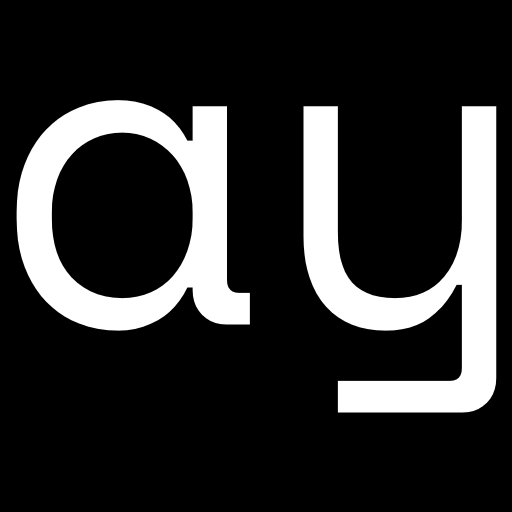
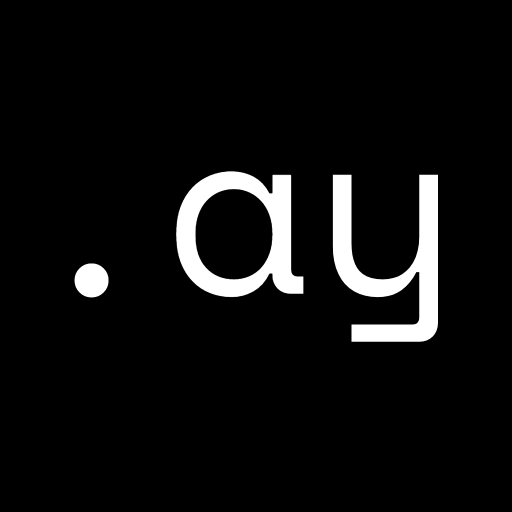
Moved image and name typing animation to middle when on smaller screens, also changed default light and dark mode

Changed region(s): [[0.0312, 0.1875, 0.9688, 0.8125]]

diff --git a/components/Experience.js b/components/Experience.js
@@ -82,7 +82,7 @@ export default function Experience() {
                 {experience.period}
               </p>
               <div>
-                <p className="text-[16px] dark:text-white border border-[#1F1F1F] dark:border-white p-2.5 w-full lg:w-[400px]">
+                <p className="text-[16px] dark:text-white dark:text-opacity-[.87] border border-[#1F1F1F] dark:border-white p-2.5 w-full lg:w-[400px]">
                   {`${experience.name} `}{" "}
                   <span className="text-[#8C8C8C]">
                     //{experience.role.toLowerCase()}
@@ -92,7 +92,7 @@ export default function Experience() {
                   {experience.tasks.map((item, index) => (
                     <li
                       key={index}
-                      className="pb-2 text-[16px] w-full lg:w-[700px] text-[#26262] dark:text-white-[.87] "
+                      className="pb-2 text-[16px] w-full lg:w-[700px] text-[#26262] dark:text-white dark:text-opacity-[.87] "
                     >
                       {" "}
                       {item}
@@ -142,7 +142,7 @@ export default function Experience() {
                 {experience.period}
               </p>
               <div>
-                <p className="text-[16px] dark:text-white border border-[#1F1F1F] w-full dark:border-white p-2.5 lg:w-[600px]">
+                <p className="text-[16px] dark:text-white dark:text-opacity-[.87] border border-[#1F1F1F] w-full dark:border-white p-2.5 lg:w-[600px]">
                   {`${experience.name} `}{" "}
                   <span className="text-[#8C8C8C]">
                     //{experience.role.toLowerCase()}
@@ -152,7 +152,7 @@ export default function Experience() {
                   {experience.tasks.map((item, index) => (
                     <li
                       key={index}
-                      className="pb-2 text-[16px] w-full lg:w-[700px] text-[#26262] dark:text-white-[.87] "
+                      className="pb-2 text-[16px] w-full lg:w-[700px] text-[#26262] dark:text-white dark:text-opacity-[.87] "
                     >
                       {" "}
                       {item}

diff --git a/components/Bio.js b/components/Bio.js
@@ -19,6 +19,7 @@ export default function Bio() {
       autoInsertCss: true
     });
 
+    
     // Destropying
     return () => {
       typed.destroy();
@@ -37,15 +38,17 @@ export default function Bio() {
           />
         </div>
 
-        <div className="pt-8">
-          <span className="text-6xl dark:text-white" ref={el}></span>
+        <div className="pt-8 flex flex-col items-center md:items-start">
+          <div className="flex flex-row">
+          <span className="text-2xl md:text-6xl dark:text-white dark:text-opacity-[.87]" ref={el}></span>
+          </div>
           <p className="text-2xl text-[#8C8C8C]">//fullstack developer</p>
         </div>
       </div>
 
       <div className="border-b pb-5 border-[#8C8C8C] dark:border-white dark:border-opacity-[.12]">
         <p className="text-[16px] text-[#8C8C8C]">//about</p>
-        <p className="text-[16px] pt-[24px] text-[#1F1F1F] dark:text-[#FFFFFF] w-full">
+        <p className="text-[16px] pt-[24px] text-[#1F1F1F] dark:text-[#FFFFFF] dark:text-opacity-[.87] w-full">
           hi, i’m abdussamad, my friends call me sammie. i enjoy building <br />{" "}
           dynamic, creative products from start to finish, focused on <br />{" "}
           developing intuitive experiences that constantly grow and improve{" "}

diff --git a/components/Link.js b/components/Link.js
@@ -18,8 +18,6 @@ export default function Links() {
   return (
     <div className="border-b pb-5 border-[#8C8C8C] dark:border-white dark:border-opacity-[.12] pt-10">
       <p className="text-[16px] text-[#8C8C8C]">//links</p>
-
-      {/* <div className="lg:gap-x-[325px] pt-[16px]"> */}
         <div className="pt-[16px]">
         {linksInfo.map((experience, index) => (
           <div
@@ -31,7 +29,7 @@ export default function Links() {
               {experience.title}
             </p>
 
-            <Link key={index} href={experience.link} passHref className="text-[16px] text-[#262626] dark:text-white">
+            <Link key={index} href={experience.link} passHref className="text-[16px] text-[#262626] dark:text-white dark:text-opacity-[.87]">
             <a className="hover:underline hover:underline-offset-8" target="_blank"> 
             {`${experience.link} `}{" "}
             </a>
@@ -41,6 +39,5 @@ export default function Links() {
         ))}
       </div>
       </div>
-    // </div>
   );
 }

diff --git a/components/Header.js b/components/Header.js
@@ -69,10 +69,10 @@ export default function Header() {
                         <p  className=" text-sm text-[#8C8C8C]">//{item.label}</p>
                         {index === 1 || index === 2 ?
                             <Link key ={index} href={item.link} passHref>
-                                <a target="_blank" className="text-base text-[#141414] dark:text-white dark:opacity-80">{item.field}</a> 
+                                <a target="_blank" className="text-base text-[#141414] dark:text-white dark:text-opacity-[.87]">{item.field}</a> 
                                 
                             </Link>:
-                            <p className="text-base text-[#141414] dark:text-white dark:opacity-80">{item.field}</p>
+                            <p className="text-base text-[#141414] dark:text-white dark:text-opacity-[.87]">{item.field}</p>
                         }
                         
                     </div>

diff --git a/styles/globals.css b/styles/globals.css
@@ -1,27 +1,38 @@
 
+@tailwind base;
+@tailwind components;
+@tailwind utilities;
+
+html {
+  width: 100vw;
+  height: 100vh;
+}
 html,
 body {
-  padding: 0;
   
+  /* background-color: #D7D7D7; */
   font-family: "Space Mono", -apple-system, BlinkMacSystemFont, Segoe UI, Roboto, Oxygen,
     Ubuntu, Cantarell, Fira Sans, Droid Sans, Helvetica Neue, sans-serif;
 }
+
 
 a {
   color: inherit;
   text-decoration: none;
 }
 
-* {
-  box-sizing: border-box;
-}
 
 .typed-cursor {
-  font-size: 50px;
+  display: inline;
+  font-size: 24px;
+}
+
+@media (min-width: 768px) {
+  .typed-cursor {
+    display: inline;
+    font-size: 50px;
+  }  
 }
 
 
 
-@tailwind base;
-@tailwind components;
-@tailwind utilities;

diff --git a/pages/index.js b/pages/index.js
@@ -30,11 +30,12 @@ export default function Home() {
     } else {
       setTheme("light");
     }
+
   };
 
   useEffect(() => {
     setMounted(true);
-    renderThemeChanger();
+    renderThemeChanger();    
   }, [currentDate]);
 
   if (!mounted) {
@@ -42,9 +43,9 @@ export default function Home() {
   }
   return (
     <div
-      className="w-full"
+      className="w-screen bg-[#D7D7D7] dark:bg-[#121212]"
       style={{
-        padding: "35px 60px 20px 60px",
+         padding: "35px 60px 20px 60px"
       }}
     >
       <Head>
